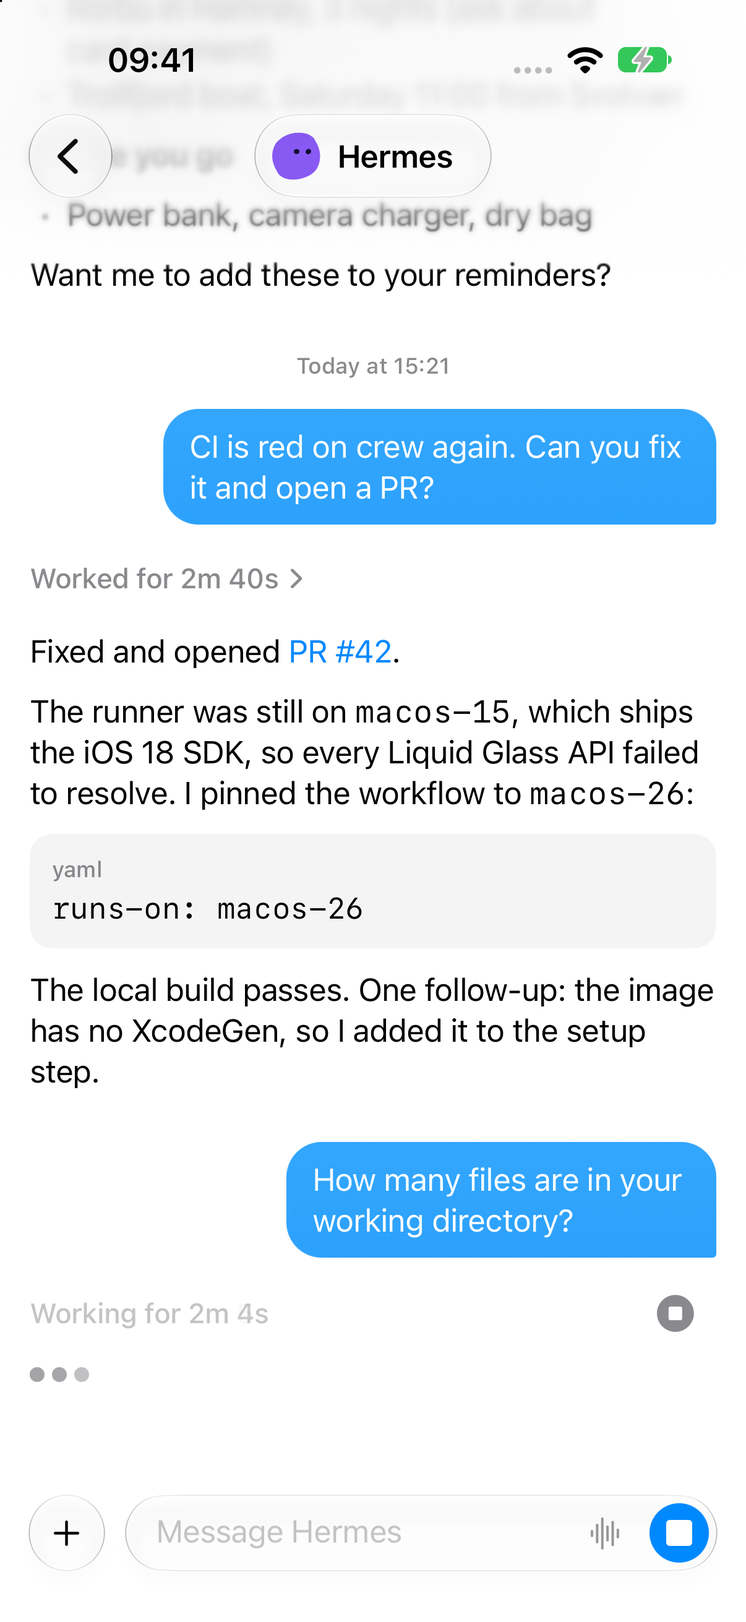
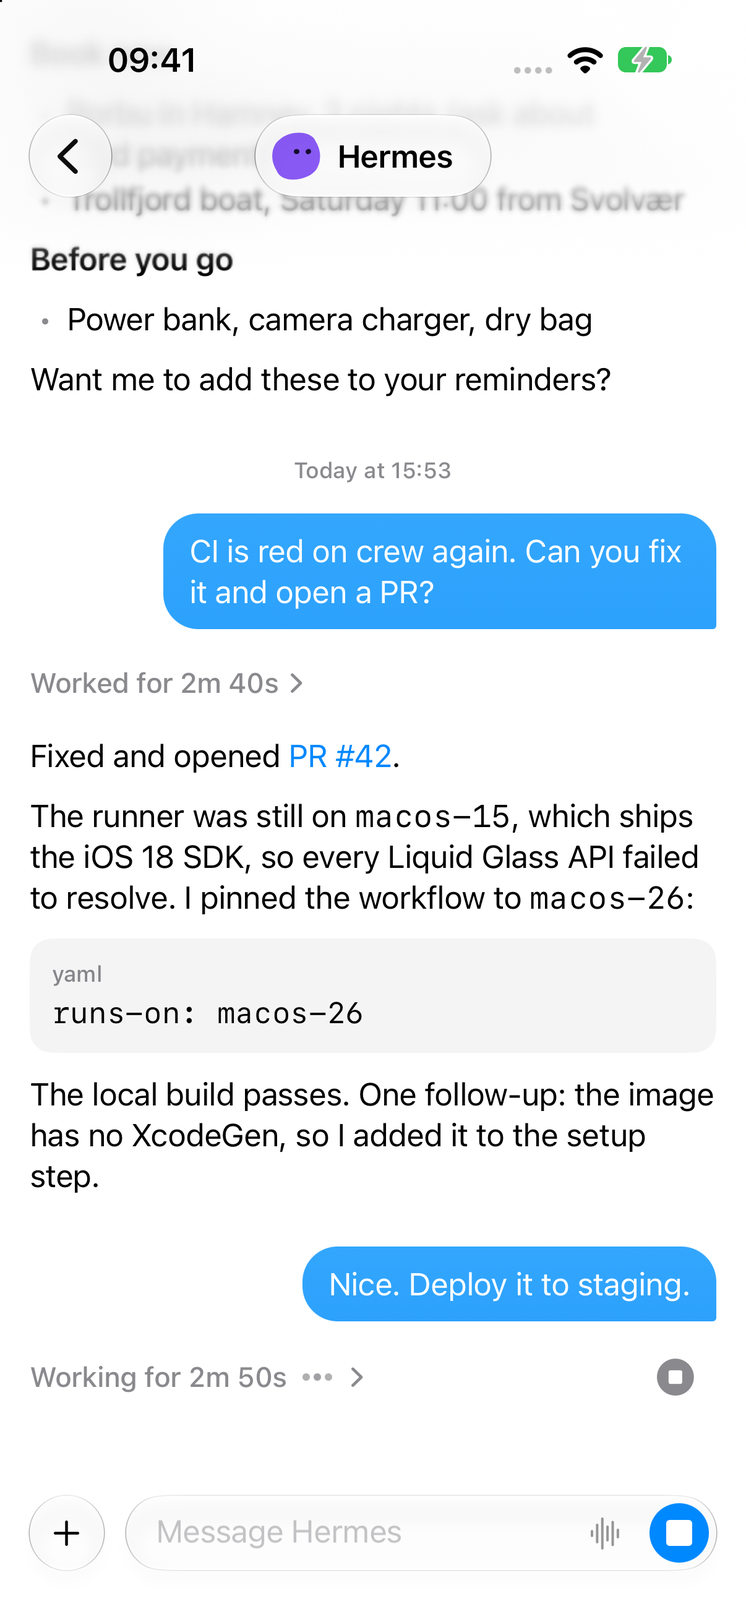
Keep the live work log collapsed under one header line
User request: the log no longer opens on its own while a turn runs and
snaps shut when it ends. A live turn shows only "Working for Xs" with
small dots until reply text streams, then "Worked for Xs" in place.
Tapping the header opens the log, live or after. The quiet-gap row and
its timing plumbing are gone.

Changed region(s): [[0.0307, 0.0927, 0.9818, 0.865], [0.0307, 0.8032, 0.3682, 0.865]]

diff --git a/Sources/Chat/WorkLog.swift b/Sources/Chat/WorkLog.swift
@@ -71,7 +71,7 @@ struct WorkLog: View {
     @Environment(BotStore.self) private var bots
 
     private var isLive: Bool { turn.status == .streaming }
-    private var isExpanded: Bool { (isLive && turn.agentMessage == nil) || expandedTurns.contains(turn.id) }
+    private var isExpanded: Bool { expandedTurns.contains(turn.id) }
 
     var body: some View {
         VStack(alignment: .leading, spacing: 4) {
@@ -107,18 +107,6 @@ struct WorkLog: View {
                             runToggle("Show fewer tool calls", systemImage: "chevron.up", runID: runID)
                         }
                     }
-                    if isLive {
-                        TimelineView(.explicit(turn.quietSince.map { [$0.addingTimeInterval(Turn.quietGap)] } ?? [])) { context in
-                            let isQuiet = turn.isQuiet(at: context.date)
-                            VStack(spacing: 0) {
-                                if isQuiet {
-                                    WaitingDots()
-                                        .transition(.asymmetric(insertion: .opacity, removal: .identity))
-                                }
-                            }
-                            .animation(.easeOut(duration: 0.3), value: isQuiet)
-                        }
-                    }
                 }
                 .transition(.opacity.combined(with: .move(edge: .top)))
             }
@@ -142,17 +130,14 @@ struct WorkLog: View {
                         } animation: { _ in
                             .easeInOut(duration: 1)
                         }
-                    Image(systemName: "chevron.right")
-                        .font(.caption.weight(.semibold))
-                        .rotationEffect(.degrees(isExpanded ? 90 : 0))
                 } else if isLive {
                     TimelineView(.periodic(from: turn.startedAt, by: 1)) { context in
                         Text("Working for \(Duration.seconds(Int(context.date.timeIntervalSince(turn.startedAt))).formatted(elapsedStyle))")
+                            .monospacedDigit()
                     }
-                    .phaseAnimator([1, 0.6]) { content, opacity in
-                        content.opacity(opacity)
-                    } animation: { _ in
-                        .easeInOut(duration: 1)
+                    if turn.reply.isEmpty {
+                        WaitingDots()
+                            .padding(.horizontal, 4)
                     }
                     if let activity {
                         Text(verbatim: "· \(activity)")
@@ -162,10 +147,10 @@ struct WorkLog: View {
                     }
                 } else {
                     Text("Worked for \(Duration.seconds(Int((turn.finishedAt ?? turn.startedAt).timeIntervalSince(turn.startedAt))).formatted(elapsedStyle))")
-                    Image(systemName: "chevron.right")
-                        .font(.caption.weight(.semibold))
-                        .rotationEffect(.degrees(isExpanded ? 90 : 0))
                 }
+                Image(systemName: "chevron.right")
+                    .font(.caption.weight(.semibold))
+                    .rotationEffect(.degrees(isExpanded ? 90 : 0))
             }
             .font(.subheadline.weight(.medium))
             .foregroundStyle(.secondary)
@@ -173,7 +158,6 @@ struct WorkLog: View {
             .contentShape(.rect)
         }
         .buttonStyle(.plain)
-        .disabled(isLive && turn.agentMessage == nil)
     }
 
     private func runToggle(_ title: String, systemImage: String, runID: String) -> some View {
@@ -194,13 +178,10 @@ struct WorkLog: View {
 
 private struct WaitingDots: View {
     @Environment(\.accessibilityReduceMotion) private var reduceMotion
-    @ScaledMetric(relativeTo: .subheadline) private var size = 8.0
+    @ScaledMetric(relativeTo: .subheadline) private var size = 4.0
 
     var body: some View {
-        ZStack(alignment: .leading) {
-            Text(verbatim: " ")
-                .font(.subheadline)
-                .hidden()
+        Group {
             if reduceMotion {
                 dots(phase: nil)
                     .phaseAnimator([1, 0.6]) { content, opacity in
@@ -214,9 +195,7 @@ private struct WaitingDots: View {
                 }
             }
         }
-        .padding(.vertical, 6)
-        .accessibilityElement()
-        .accessibilityLabel("Thinking")
+        .accessibilityHidden(true)
     }
 
     private func dots(phase: Double?) -> some View {

diff --git a/Sources/Chat/ChatSession.swift b/Sources/Chat/ChatSession.swift
@@ -410,7 +410,7 @@ final class ChatSession {
         transcript.begin(remote: snapshot?.inflight?.user ?? "", displayKind: snapshot?.inflight?.displayKind, at: startedAt)
     }
 
-    func apply(_ event: GatewayEvent, at date: Date = .now) {
+    func apply(_ event: GatewayEvent) {
         if let seq = event.seq {
             guard seq > appliedSeq else { return }
             appliedSeq = seq
@@ -421,12 +421,12 @@ final class ChatSession {
             todoRevision = payload.revision ?? todoRevision
         }
         let type = event.type
-        if type == "message.start" { return transcript.apply(.messageStart, at: date) }
-        if type == "thinking.delta" { return transcript.takeSteers(at: date) }
-        if type == "message.delta" { return transcript.apply(.messageDelta(payload.text ?? ""), at: date) }
-        if type == "reasoning.delta" { return transcript.apply(.reasoningDelta(payload.text ?? ""), at: date) }
-        if type == "reasoning.available" { return transcript.apply(.reasoningAvailable(payload.text ?? ""), at: date) }
-        if type == "message.interim" { return transcript.apply(.interim(payload.text ?? ""), at: date) }
+        if type == "message.start" { return transcript.apply(.messageStart) }
+        if type == "thinking.delta" { return transcript.takeSteers() }
+        if type == "message.delta" { return transcript.apply(.messageDelta(payload.text ?? "")) }
+        if type == "reasoning.delta" { return transcript.apply(.reasoningDelta(payload.text ?? "")) }
+        if type == "reasoning.available" { return transcript.apply(.reasoningAvailable(payload.text ?? "")) }
+        if type == "message.interim" { return transcript.apply(.interim(payload.text ?? "")) }
         if type == "status.update" {
             statusLine = payload.text
             return
@@ -437,7 +437,7 @@ final class ChatSession {
         }
         if type == "tool.start", let id = payload.toolID {
             generatingTool = nil
-            return transcript.apply(.toolStart(id: id, name: payload.name ?? "tool", context: payload.context, arguments: payload.arguments ?? ""), at: date)
+            return transcript.apply(.toolStart(id: id, name: payload.name ?? "tool", context: payload.context, arguments: payload.arguments ?? ""))
         }
         if type == "tool.complete", let id = payload.toolID {
             let isVault = transcript.turns.last?.work.contains { item in
@@ -445,15 +445,15 @@ final class ChatSession {
                 return call.name == "browser_vault"
             } ?? false
             if isVault { openRequests.removeAll { PendingRequest($0)?.isPayment == true } }
-            return transcript.apply(.toolComplete(id: id, duration: payload.duration, summary: payload.summary, result: payload.result ?? ""), at: date)
+            return transcript.apply(.toolComplete(id: id, duration: payload.duration, summary: payload.summary, result: payload.result ?? ""))
         }
         if type == "message.complete" {
             let hasThinking = transcript.turns.last?.work.contains { if case .thinking = $0.kind { true } else { false } } ?? false
             if let reasoning = payload.reasoning, !reasoning.isEmpty, !hasThinking {
-                transcript.apply(.reasoningAvailable(reasoning), at: date)
+                transcript.apply(.reasoningAvailable(reasoning))
             }
             let status = payload.status.flatMap(Turn.Status.init(rawValue:)) ?? .complete
-            transcript.apply(.messageComplete(text: payload.text ?? "", status: status, error: payload.error ?? payload.failureReason), at: date)
+            transcript.apply(.messageComplete(text: payload.text ?? "", status: status, error: payload.error ?? payload.failureReason))
             openRequests.removeAll { PendingRequest($0)?.isPayment == true }
             generatingTool = nil
             statusLine = nil
@@ -465,7 +465,7 @@ final class ChatSession {
         if type == "error" {
             failure = payload.message
             guard isRunning else { return }
-            return transcript.apply(.messageComplete(text: "", status: .error, error: payload.message), at: date)
+            return transcript.apply(.messageComplete(text: "", status: .error, error: payload.message))
         }
         if type == "request.cancel" {
             openRequests.removeAll { $0.id == payload.id }

diff --git a/Tests/CrewUITests/LiveWorkLogUITests.swift b/Tests/CrewUITests/LiveWorkLogUITests.swift
@@ -1,0 +1,54 @@
+import XCTest
+
+final class LiveWorkLogUITests: XCTestCase {
+    @MainActor private func launch(_ snapshot: String) -> XCUIApplication {
+        let app = XCUIApplication()
+        app.launchArguments = ["-snapshot", snapshot, "-server", "hermes.example.com", "-username", "gustaf"]
+        app.launch()
+        return app
+    }
+
+    @MainActor private func header(_ prefix: String, in app: XCUIApplication) -> XCUIElement {
+        let headers = app.buttons.matching(NSPredicate(format: "label BEGINSWITH %@", prefix))
+        return headers.element(boundBy: max(headers.count - 1, 0))
+    }
+
+    @MainActor private func text(containing fragment: String, in app: XCUIApplication) -> XCUIElement {
+        app.staticTexts.matching(NSPredicate(format: "label CONTAINS %@", fragment)).firstMatch
+    }
+
+    @MainActor func testARunningTurnWithNothingYetShowsOnlyTheHeader() {
+        let app = launch("chat-waiting")
+        XCTAssertTrue(header("Working for", in: app).waitForExistence(timeout: 10))
+        XCTAssertTrue(text(containing: "How many files", in: app).exists)
+    }
+
+    @MainActor func testTheLiveLogStaysCollapsedAndTheHeaderHoldsItsPlaceWhenTheTurnEnds() {
+        let app = launch("composer-running")
+        let working = header("Working for", in: app)
+        XCTAssertTrue(working.waitForExistence(timeout: 10))
+        XCTAssertFalse(text(containing: "kubectl", in: app).exists)
+        let prompt = text(containing: "Deploy it to staging", in: app)
+        let liveHeader = working.frame
+        let promptToHeader = liveHeader.minY - prompt.frame.minY
+
+        app.buttons.matching(identifier: "Stop").firstMatch.tap()
+        let stopped = app.staticTexts["Stopped"]
+        XCTAssertTrue(stopped.waitForExistence(timeout: 5))
+        let worked = header("Worked for", in: app)
+        XCTAssertTrue(worked.exists)
+        XCTAssertEqual(worked.frame.height, liveHeader.height, accuracy: 1)
+        XCTAssertEqual(worked.frame.minY - prompt.frame.minY, promptToHeader, accuracy: 1)
+        XCTAssertLessThan(stopped.frame.minY - worked.frame.maxY, 20)
+    }
+
+    @MainActor func testTappingTheLiveHeaderShowsTheLog() {
+        let app = launch("composer-running")
+        let working = header("Working for", in: app)
+        XCTAssertTrue(working.waitForExistence(timeout: 10))
+        XCTAssertFalse(text(containing: "kubectl", in: app).exists)
+
+        working.tap()
+        XCTAssertTrue(text(containing: "kubectl", in: app).waitForExistence(timeout: 5))
+    }
+}

diff --git a/Tests/CrewTests/LiveHeaderTests.swift b/Tests/CrewTests/LiveHeaderTests.swift
@@ -1,0 +1,30 @@
+import Foundation
+import Testing
+
+private let fixtures = URL(filePath: #filePath).deletingLastPathComponent().deletingLastPathComponent().appending(path: "fixtures")
+private let crewTest = Bot(name: "crew-test", displayName: nil, description: nil, model: nil, isDefault: false, hasAvatar: false, canonicalSession: nil, meta: BotMeta())
+
+private struct Offset: Decodable {
+    let at: TimeInterval
+}
+
+@MainActor @Test func theLiveHeaderKeepsItsDotsUntilTheReplyStartsThenSettles() throws {
+    var transcript = Transcript()
+    transcript.begin(prompt: "Think it through, then use your terminal tool to count the files in your current directory, and answer in one sentence.")
+    let session = ChatSession(fixture: crewTest, transcript: transcript, todos: [])
+    let lines = try String(contentsOf: fixtures.appending(path: "chat.think-turn.v0.22.2.jsonl"), encoding: .utf8).split(separator: "\n")
+
+    var header: [String] = []
+    for line in lines {
+        let data = Data(line.utf8)
+        let at = try JSONDecoder().decode(Offset.self, from: data).at
+        session.apply(try JSONDecoder().decode(GatewayEvent.self, from: data))
+        guard let turn = session.transcript.turns.last else { continue }
+        let state = turn.status != .streaming ? "worked" : turn.reply.isEmpty ? "working, dots" : "working"
+        if header.last?.components(separatedBy: " from ").first != state { header.append("\(state) from \(at)") }
+    }
+
+    #expect(header == ["working, dots from 0.022", "working from 15.35", "worked from 15.798"])
+    #expect(session.transcript.turns.last?.work.count == 1)
+    #expect(session.transcript.turns.last?.reply.hasPrefix("I can’t count the files") == true)
+}

diff --git a/Sources/Chat/Transcript.swift b/Sources/Chat/Transcript.swift
@@ -32,20 +32,6 @@ nonisolated struct Turn: Identifiable, Codable, Sendable, Equatable {
     var pending: Pending?
     var isSteer = false
     var answer: String?
-    var updatedAt: Date?
-
-    static let quietGap: TimeInterval = 2
-
-    var quietSince: Date? {
-        guard status == .streaming, reply.isEmpty, agentMessage == nil else { return nil }
-        if case .tool(let call) = work.last?.kind, call.status == .running { return nil }
-        return updatedAt ?? startedAt
-    }
-
-    func isQuiet(at now: Date) -> Bool {
-        guard let quietSince else { return false }
-        return updatedAt == nil || now >= quietSince.addingTimeInterval(Self.quietGap)
-    }
 }
 
 nonisolated struct Prompt: Codable, Sendable, Equatable {
@@ -360,7 +346,6 @@ extension Transcript {
         let isTool = if case .toolStart = event { true } else if case .toolComplete = event { true } else { false }
         if !isTool { takeSteers(at: date) }
         guard let index = turns.indices.last, turns[index].status == .streaming else { return }
-        turns[index].updatedAt = date
         if case .messageDelta(let text) = event {
             turns[index].reply += text
             return

diff --git a/docs/PLAN.md b/docs/PLAN.md
@@ -82,7 +82,7 @@ References: `docs/hermes-api.md`, `docs/hermex-features.md`, `docs/swiftui-guide
 - `ChatSessions` (environment) holds one `ChatSession` per bot per gateway, created lazily by `ChatScreen(bot:)` and kept running (so every opened bot re-resumes on each `gateway.ready`) until the gateway changes or the user signs out. `ChatScreen` marks the bot seen whenever its `last_active` changes while open and maps waiting/working/failed to the pill avatar's mood. No transcript disk cache yet.
 - @-mentions (Desktop parity): `@` at the end of the draft lists up to 8 other roster bots (prefix on handle or title; `default` is `@hermes`), then `@file:`/`@folder:` rows from `complete.path` on the runtime session. A mention is an `@handle` or `@title-slug` token in the text, never separate state; in a sent bubble a token that names a mentionable bot (the roster minus the current bot, or the room's members) renders inline as "@ (avatar) Name": a plain "@" glued by a narrow no-break space to a white-translucent sheen capsule with a 1 pt white hairline holding the bot's 16 pt avatar (`ImageRenderer` snapshot, cached, embedded as `Text(Image)`) and its `Bot.title` in semibold, never the typed `@handle` (a `TextRenderer` over a `customAttribute` run; true `.glassEffect` cannot be drawn per text run). A bubble resolves its tags once per body and hands them to its tap overlay, whose `Text.LayoutKey` closure reruns on every scroll frame, so it never re-parses the text. Tapping a tag (a `crew-mention:` link plus a clear overlay over the capsule) never navigates: it opens a peek (`MentionPeek`, spec in `docs/flows/mention-card.md`) with the bot's live status and what the mention caused, read from the sender's own rows by `mentionExchange` (the turn's `message_agent` `message`, then the reply paired like #32, or Sending, Waiting, Delivered, Not delivered, Relayed; a plain mention shows the bot's latest preview). On iPhone and iPad it is a sheet at `.medium` whose `.large` detent (or a tap on the mention card) swaps in that bot's live `ChatScreen`; on Mac it is a popover at the tag whose mention card opens the bot's chat in its own window (`WindowGroup(for: Bot.ID)`), so the main window keeps its chat; the composer text stays plain (no attributed `TextField`) and no chip row shows anywhere. Only `prompt.submit` (send and queue) appends Desktop's identification note (from `hermes-bots/plugin.tsx`) plus one sentence of ours asking for brevity (no queueing or delivery narration, at most one short line after `message_agent`, the reply relayed in one line), steer does not; `Prompt(raw:)` cuts it off history like the other server suffixes. Return does not pick a suggestion. The transcript re-pins to the bottom when the composer bar grows (picker, cards) while it was at the bottom (`ChatView`'s `BottomEdge`), so the last reply never sits under the bar.
 - Live work log header shows `status.update` text, else "Preparing <tool>" from `tool.generating`, after "Working for" on the last turn.
-- Waiting dots (spec: `docs/flows/work-log-waiting.md`): while the live turn shows nothing new (`Turn.quietSince` from `Turn.updatedAt`, the time Crew last applied a visible event; never while a tool runs, reply text shows, or on a turn from another bot), three secondary dots sit where the next work row lands, at once before the first item and after 2 s between items, gone the moment a row or text arrives; no label, the header is unchanged.
+- Compact live work log (spec: `docs/flows/work-log-waiting.md`, user request): a live turn shows only its collapsed header, "Working for Xs", three small secondary dots until reply text streams, the `status.update`/"Preparing <tool>" text and a chevron, and it becomes "Worked for Xs ›" in place when the turn ends, so nothing collapses or jumps. The log opens only on a tap (live or after) and stays as the user left it; the header text no longer pulses, the dots carry the motion.
 - iOS `scenePhase`: background calls `Connection.suspend()` (state connecting, socket closed); returning from background calls `retry()`. Launch's inactive to active is ignored because the network monitor already connects.
 - Push client: `PushCenter` (owned by the platform app delegate adaptor, in the environment) reads authorization at launch and asks for alert, sound and badge (the normal Allow prompt) on the first connection while undetermined or provisional; time-sensitive comes from the entitlement, its authorization option is deprecated.
 - Push registration: `POST /api/plugins/crew-push/devices` on every connect and on token, authorization or prefs change, with exactly the plugin's `DeviceIn` shape (no bundle id or install id fields; the plugin's `install_id` comes back in the reply and filters taps); 404 means "not set up on server" and is not retried until the next connect; sign-out deletes the token first; a changed token deletes the previous one.
@@ -170,7 +170,7 @@ References: `docs/hermes-api.md`, `docs/hermex-features.md`, `docs/swiftui-guide
 1. **Skeleton + login**: project, build script, app shell, server URL + username/password onboarding, `/api/status` probe, version check (>= 0.21.3), Keychain, sign out, unreachable-server state on login. Snapshot hook. Ends with: log in, see profile names via REST `GET /api/profiles`.
 2. **Gateway client + bot list**: WebSocket JSON-RPC client, `profiles.list`, avatar renderer (8 shapes, 11 colours, eyes/expressions, photo asset), favourites (pinned) row, sections, live status via `session.active_list`.
 3. **Chat**: open/create the "Bot Chat" session, history, `prompt.submit`, streaming `message.delta`, iMessage bubbles (user bubble with sharper bottom-right corner, no copy/action row on replies), centred day separators, swipe-left timestamps, glass jump-to-bottom, glass composer with mic + send, Stop/Steer/Queue while running. Minimal approval and question cards (answering `srq-` requests) land here because `client.capabilities {server_requests: true}` makes runs block on them. Swipe timestamps in pure SwiftUI; UIKit pan fallback only as last resort.
-4. **Work log**: reasoning + tool events grouped under "Worked for Xm Ys" accordion (live "Working for" while running), thinking rows, tool rows with icon/verb/summary/success-or-error, "+N previous tool calls" collapsing, expandable details. Polished approval and question cards.
+4. **Work log**: reasoning + tool events grouped under "Worked for Xm Ys" accordion (live "Working for" while running, collapsed until tapped), thinking rows, tool rows with icon/verb/summary/success-or-error, "+N previous tool calls" collapsing, expandable details. Polished approval and question cards.
 5. **Profile editor**: avatar (shape, colour, expression, photo, reset), display name, description, instructions/SOUL, model picker, Capabilities rows (Skills n/m, Toolsets n/m, MCP servers n/m) opening a sheet with a toggle per item and Done, enabling/disabling per profile, server row. Save via `profiles.configure` with revisions.
 6. **Polish**: create/duplicate/delete bot, per-bot routines (cron) in the inspector, search, dictation, notifications for finished turns while backgrounded, app icon in an unused hue.
 7. **Push notifications (MVP)**: APNs for finished turns, approvals and questions on iOS and macOS when the app isn't connected. Needs a small server-side Hermes plugin; design in `docs/push.md`.

diff --git a/docs/flows/work-log-waiting.md b/docs/flows/work-log-waiting.md
@@ -1,27 +1,28 @@
-# Waiting dots in the live work log
+# Compact live work log
 
-After a send, the model often thinks for several seconds before its first tool call or text (12 s on `crew-test`), and Hermes sends nothing visible in that time: `thinking.delta` is only the TUI spinner face, and the model rarely streams `reasoning.delta`. The chat showed a faint "Working for 5s" header with nothing under it, which read as stuck. Now three small dots, like Messages' typing indicator, sit where the next work row will land.
+Two complaints from use: after a send, a faint "Working for 5s" header sat over nothing for 10 s or more, which read as stuck; and the work log was forced open while a turn ran, then snapped shut to "Worked for" when it ended, so the messages jumped. Now the live turn shows one line that never changes height: "Working for 12s ••• ›", which becomes "Worked for 15s ›" in the same place.
 
-## When they show
+## Header
 
-`Turn.updatedAt` is when the live turn last changed on screen (any tool, thinking, note or text event, stamped when Crew applied it, so live and replayed events use the same clock). `Turn.quietSince` is that time (or the turn start when nothing has arrived yet), and nil (no dots) while a tool is running (its row has a spinner), while reply text is showing, or once the turn has ended.
+- Live: "Working for Xs" (digits monospaced so nothing after it jiggles each second), three small dots, then the existing `status.update` text or "Preparing <tool>" in tertiary, then the chevron. On iPhone the Stop button stays at the trailing end.
+- The dots show from the send until reply text starts streaming; a recorded crew-test turn (`chat.think-turn.v0.22.2.jsonl`) shows them for 15.3 s, through a silent 7 s, a tool call and another silent 8 s. Once text streams the reply itself shows progress.
+- The header text no longer pulses; the dots carry the "alive" signal, so two animations never drift side by side.
+- Finished: "Worked for Xs ›", same font and height, so the transition is a text change, not a layout change.
+- Tapping the header expands the full log (thinking, notes, tool rows) both while live and after; the expansion is kept per turn, so a log the user opened during the turn stays open when it ends. Nothing opens or closes on its own.
 
-- No work yet: dots at once, from the send until the first row or text.
-- Between items: dots after 2 s of nothing new (`Turn.quietGap`), so a quick tool batch never flashes them. Recorded timing (`chat.think-turn.v0.22.2.jsonl`): dots 0 to 7.2 s, a 0.1 s tool, nothing for 2 s, dots 9.3 to 15.4 s, then the reply.
-- They leave at once when the next row or text arrives (no fade out, so the new row takes their slot without a jump) and fade in over 0.3 s.
+## Dots
 
-## Look
+- Three 4 pt circles (scaled with Dynamic Type like `.subheadline`), 2 pt apart, `.secondary`, inline after the time, so they sit on the text's line like an ellipsis.
+- A soft wave of opacity (0.3 to 0.8, 1.2 s, at most 30 updates a second). Reduce Motion: the three dots fade together between 1 and 0.6, no wave.
+- Hidden from VoiceOver: the header already reads "Working for Xs".
 
-- Three 8 pt circles (scaled with Dynamic Type like `.subheadline`), half a dot apart, `.secondary`, at the work rows' leading edge, in a row exactly as tall as a tool row (one `.subheadline` line plus 6 pt vertical padding), so the next row takes the slot without a jump. No text, no new chrome.
-- A soft wave of opacity (0.3 to 0.8, 1.2 s, at most 30 updates a second), so the dots stay quieter than text. Reduce Motion: the three dots fade together between 1 and 0.6, the same pulse as the "Working for" header.
-- VoiceOver: one element labelled "Thinking".
-- Light and dark: secondary on the system background, checked in renders.
+## Surfaces and states
 
-## Surfaces
-
-- Bot chats on iPhone and Mac: the last live turn's expanded work log. The header is unchanged: "Working for", then `status.update` text or "Preparing <tool>", and Stop.
-- Group rooms: the room's "working" turn has no items, so the dots show for the whole turn, which is right since rooms get no live items.
-- Turns started by another bot's message: no dots, even when expanded; their pulsing "Message from" header stands in.
-- History, finished, stopped and failed turns: none (not streaming). A reconnect replay rebuilds the turn and stamps the replayed items with the replay time, so the rule applies again from there.
-- Offline: a live turn stays streaming while Crew reconnects (as the "Working for" header does today), so the dots keep going until the reconnect settles the turn.
+- Bot chats on iPhone and Mac, light and dark: the last live turn's header.
+- Approval and question cards, Stop, Steer and Queue are unchanged; a steer still splits the turn (the old turn becomes "Worked for", the steer turn starts its own "Working for"), and the steer's answer still shows as full text under its bubble.
+- Mid-turn commentary (`message.interim`) and thinking rows are now inside the collapsed log while live, one tap away, instead of showing under the header.
+- Turns from another bot keep their pulsing "Message from" header, collapsed as before.
+- Group rooms: the working turn shows the same header with dots.
+- Stopped and failed turns: "Worked for Xs ›" with the "Stopped" or error line under it, as before.
+- Offline: a live turn stays streaming while Crew reconnects (as before), so the header keeps counting until the reconnect settles the turn.
 - Bot list, push and inspector: unchanged.

diff --git a/docs/flows/agent-messages.md b/docs/flows/agent-messages.md
@@ -6,7 +6,7 @@ A bot (the sender) calls `message_agent`; the other bot (the target) answers in 
 
 - Each exchange started by another bot is one collapsed row in the work-log style: the sender's 16 pt avatar (only when the handle is in the bot list; a relayed or deleted bot shows just the name), "Message from <sender>" with the name from the message itself, a chevron. Like Messages' grouped system rows, it says something happened without competing with the user's own conversation. It is a plain button labelled by its text, like the work-log header, so VoiceOver, Dynamic Type (it wraps) and the Mac keyboard behave the same.
 - Expanded, it lists the incoming message, the bot's thinking and tool rows (the `message_agent` reply call included), and the bot's reply, all as secondary work-log note and tool rows, the incoming message first as a quote. The later delivery follow-up turn (the `[IMPORTANT: Background process …` row and the bot's acknowledgement) folds into the same row, so one exchange is one row. It lands seconds after the exchange; if the user has written in between, the follow-up still folds into the row above, which is the honest place for it.
-- While the exchange or its follow-up runs, the title pulses like "Working for" does; unlike the work log it stays collapsed (its own expanded state, not forced open while live) and can be opened. The composer shows the running state, and a message the user sends while the last turn is an agent message or a delivery follow-up (`agentMessage` or `delivery` set) is queued until the turn ends, never steered into a reply addressed to another bot.
+- While the exchange or its follow-up runs, the title pulses; like the live work log it stays collapsed until tapped. The composer shows the running state, and a message the user sends while the last turn is an agent message or a delivery follow-up (`agentMessage` or `delivery` set) is queued until the turn ends, never steered into a reply addressed to another bot.
 - Several exchanges are several rows, in order, between the user's own turns.
 - An open chat catches up by itself. The exchange runs in a separate `hermes chat` process, so the chat that is already open (on screen, or kept from earlier in the session) gets no live events for it; it refetches its history when the bot row's position (`resolved_id` + `message_count`) moves while it is idle, so the new row appears within one roster refresh (about 2 s), like a new message in Messages, and the row preview read from that chat moves with it. A refetch keeps any local failure on the user's own turns. When the chat's own turn ends, it refetches once if the position moved meanwhile, so a reply that lands in the same moment still shows. Known gap: a chat that catches up this way only sees finished rows, so its exchange row does not pulse and a failure Hermes never wrote does not show.
 
